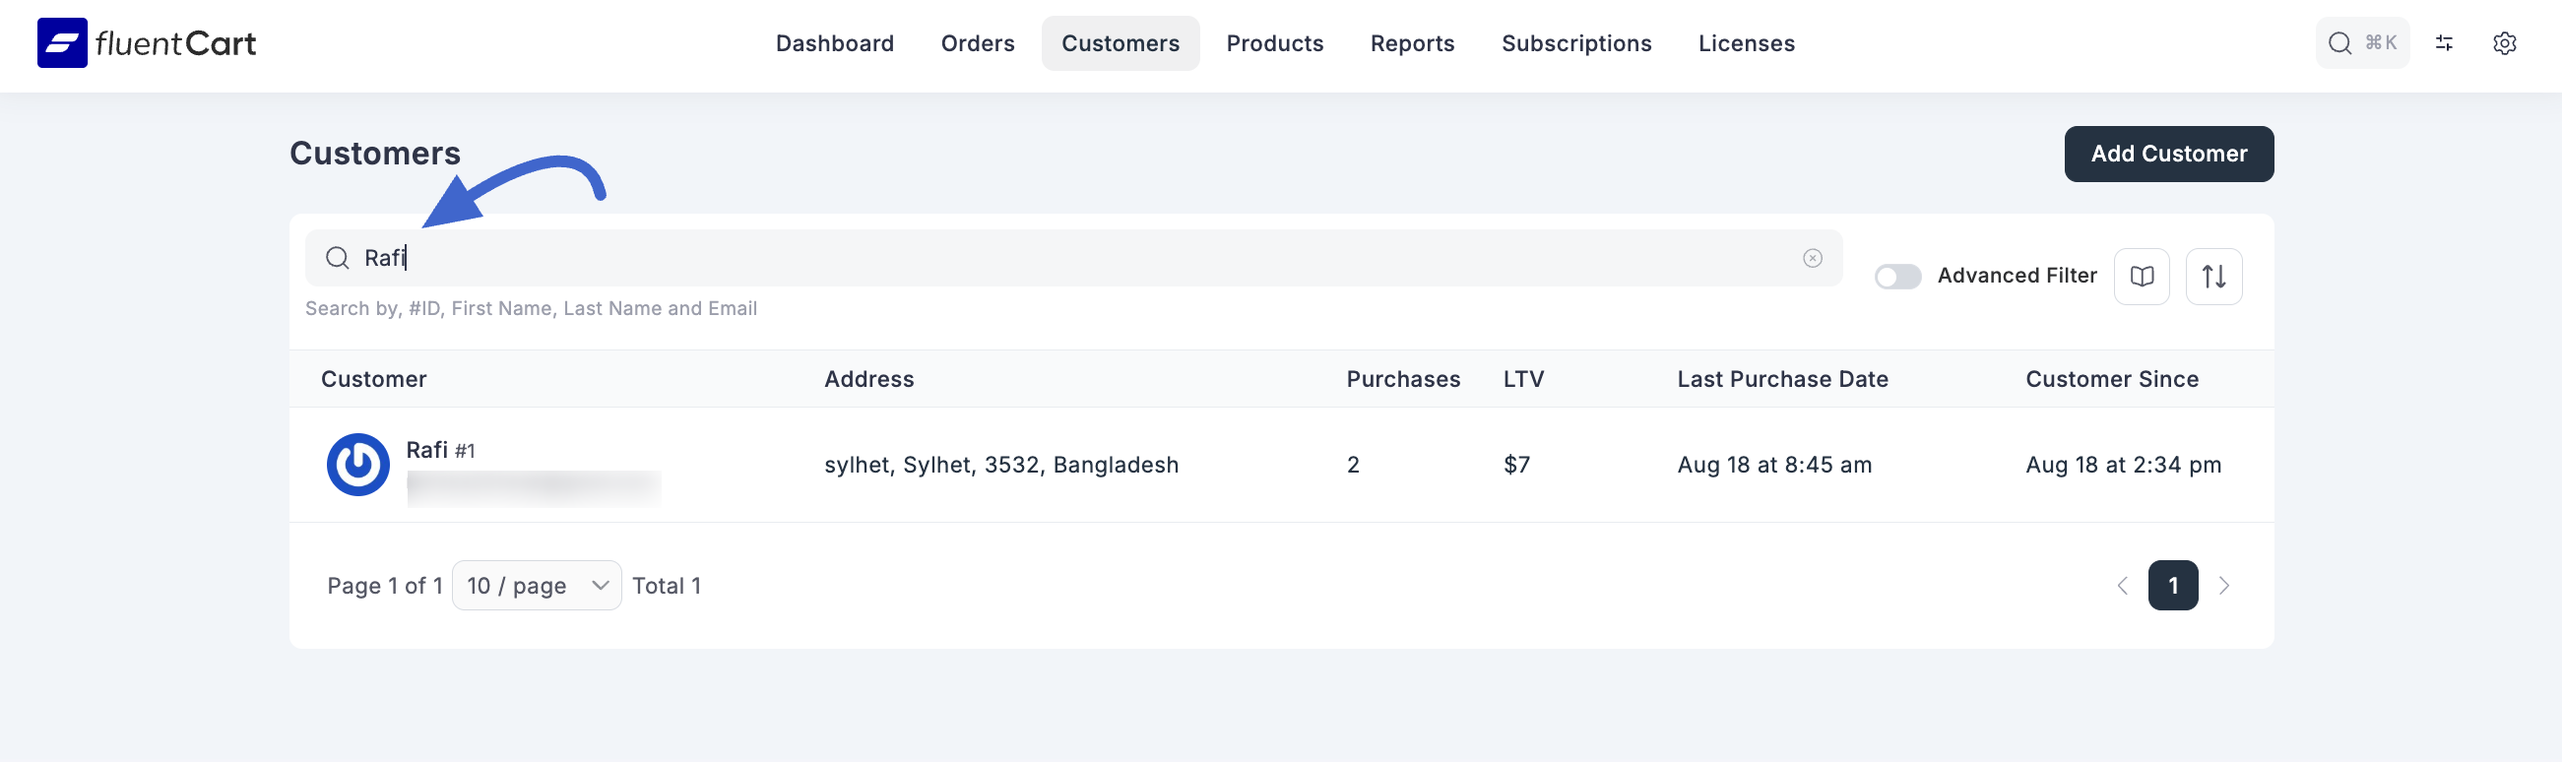
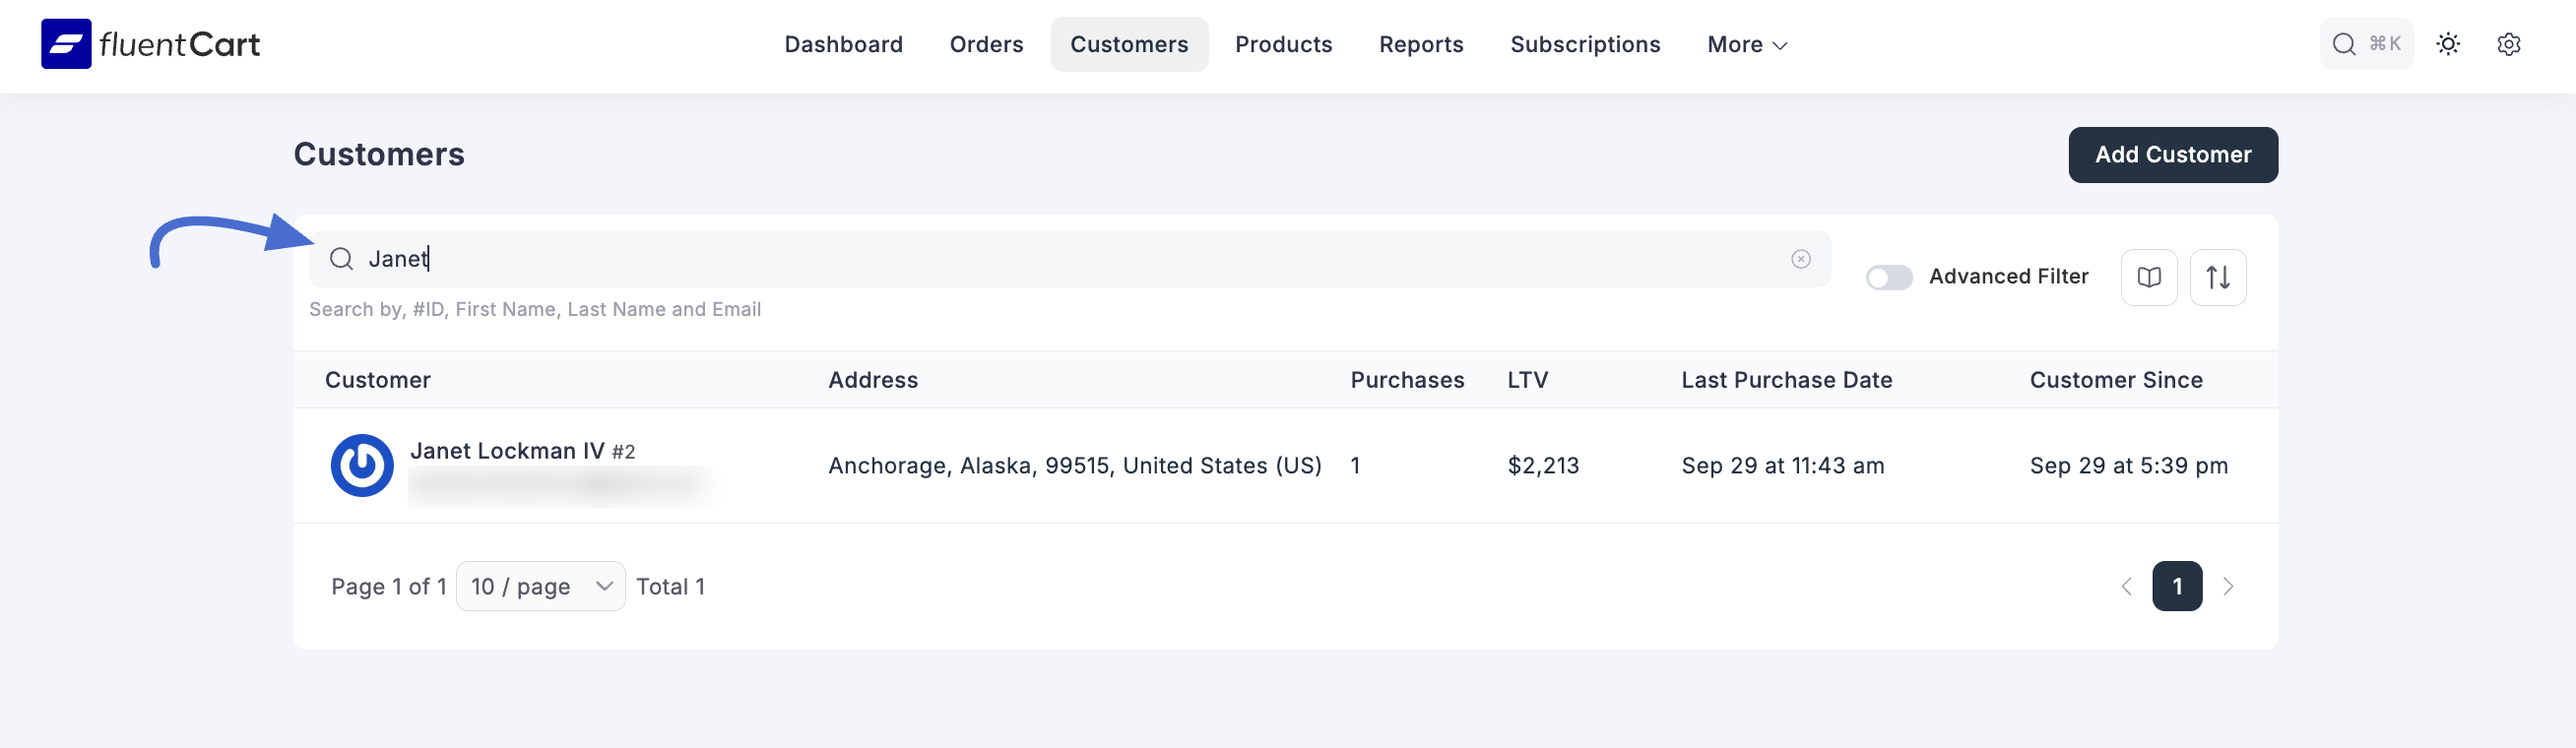
update Viewing & Searching Customers doc
update Viewing & Searching Customers documentation  description and image change

diff --git a/guide/store-management/customers-management/viewing-searching-customers.md b/guide/store-management/customers-management/viewing-searching-customers.md
@@ -4,8 +4,7 @@ The customers list in FluentCart provides an organized overview of all individua
 
 ## Accessing the Customers List
 
-1.  From your WordPress dashboard, navigate to **FluentCart Pro > Customers** in the left sidebar.
-2.  This will open the main **Customers** screen, displaying a table of all your registered customers.
+In your WordPress dashboard, go to **FluentCart Pro** > **Customers** from the left-hand menu. This will open the **Customers** page, where you’ll see a table with all your registered customers.
 
 ## Understanding the Customers List Table
 
@@ -13,26 +12,21 @@ The Customers list table presents key information for each customer at a glance:
 
 * **Customer:** Displays the customer's name and their associated email address. 
 * **Address:** Shows a summarized address for the customer. 
-* **Purchases:** Indicates the total number of orders or purchases made by that customer. 
+* **Purchases:** The total number of times they've bought something from your store.
 * **LTV (Lifetime Value):** This shows the total amount of money a customer has spent in your store over their entire history. It helps you quickly identify your most valuable customers. 
 * **Last Purchase Date:** Shows the date and time of their most recent purchase. 
 * **Customer Since:** Displays the date and time when the customer's record was first created in your system. 
 
     ![Screenshot of Customers List Page](/images/store-management/viewing-searching-customers/customers-list.png)
 
-## Searching for Customers
+## Finding Specific Customers
 
-You can quickly find specific customers using the search bar available on the Customers screen.
+Need to find a specific person? The search bar at the top of the page makes it fast and easy.
 
-1.  Locate the search bar labeled **"Search by, #ID, First Name, Last Name, and Email"** at the top of the customer list. 
-2.  Enter your search query.
-3.  Press **Enter** or click the search icon to apply the filter.
+Simply type what you're looking for into the search bar. You can search by a customer's **ID**, **First Name**, **Last Name**, or **Email Address**. Hit **Enter**, and the list will instantly filter to show you the results.
 
     ![Screenshot of Customer Search Bar](/images/store-management/viewing-searching-customers/customer-search.png) 
 
-## Pagination
+## Browsing Through Pages
 
-At the bottom of the customer list, you'll find pagination controls that allow you to navigate through larger customer databases.
-
-* **Page 1 of X:** Shows your current page out of the total number of pages. 
-* **X/page:** Allows you to select how many customer records are displayed per page (e.g., "10/page").
+If you have a lot of customers, you'll see page controls at the bottom of the table. You can use these to browse through different pages or change how many customers are shown on each page (e.g., 10 per page).
